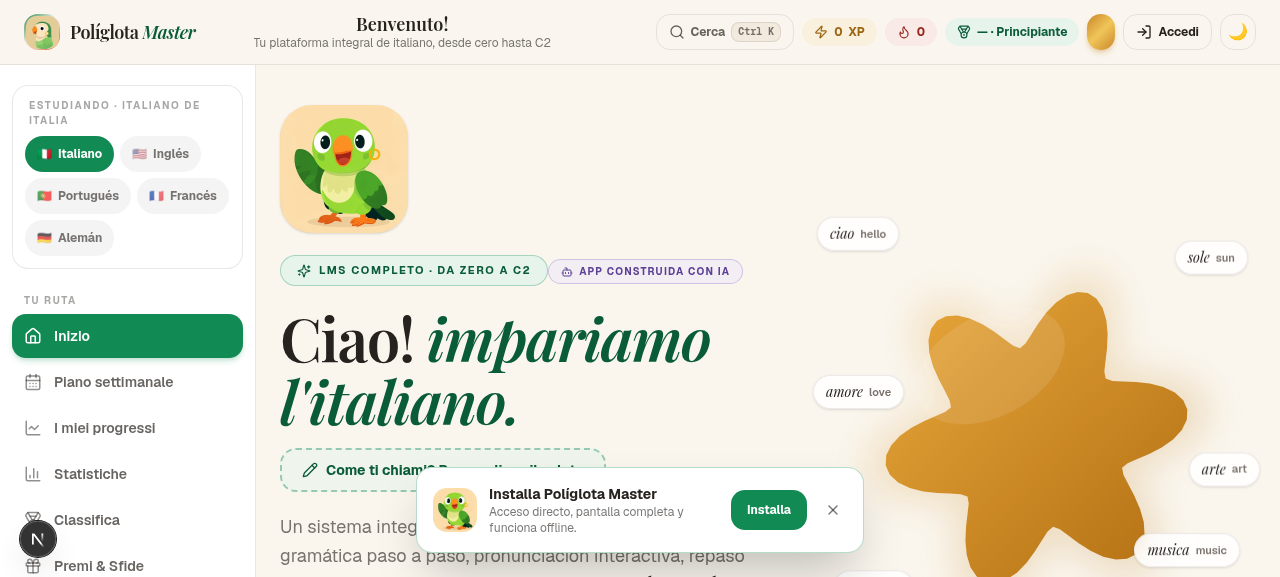
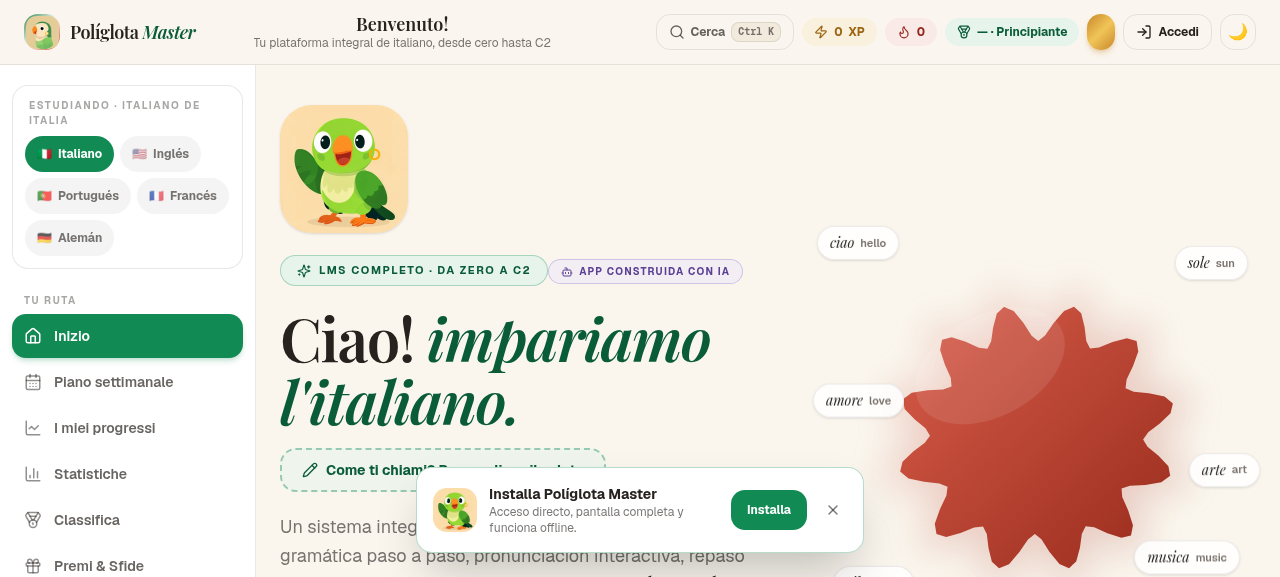
v9.40: worklog + capturas E2E + scripts de generación fase 2 (reanudables)

diff --git a/worklog.md b/worklog.md
@@ -2687,3 +2687,23 @@ Work Log:
 
 Stage Summary:
 - v9.39 completa: tutor IA multilingüe (bug del usuario resuelto), 90 noticias VOA por idioma (5 lenguas, 360 nuevas), conjugador/números/skills/situaciones/cultura/shadowing/pronunciación/test/vocabulario/gramática/juegos/fichas/analizador unificados al multilingüismo con 18 vistas desbloqueadas. Coste 0 €. Despliegue: SW im-v9-39-0.
+
+---
+Task ID: v9.40/fase-1
+Agent: main (Super Z)
+Task: v9.40 · Logo sin círculo + Centro de borrado de datos (total/parcial) + divulgación IA + tools por idioma + fotos realistas masivas (fase 1: noticias)
+
+Work Log:
+- Logo sin círculo: la foto del loro es de fondo completo → círculo (rounded-full border-2) la recortaba. Cambiada a tarjeta cuadrada con esquinas amplias: mascot.tsx (rounded-[1.5rem], afecta quiz-engine/review/dictionary/shadowing/progress/letture), home.tsx hero (rounded-[2rem] + h-28/h-32, antes h-20/h-24), exams.tsx (rounded-[1.75rem] h-28). Pantalla de carga ya usaba rounded-[1.75rem] (v9.37). pwa.tsx ya era rounded-xl.
+- Borrado selectivo (GDPR Art. 17 parcial): store.wipeLocalData(cats) con 7 categorías (srs, writings, imported, dict, activity, lessons, gamification) que conservan cuenta/sesión/ajustes/PIN/plan. legal.tsx Centro de privacidad: sección "Borrar tus datos · total o parcial" con checkboxes por categoría, contadores en vivo (N registros), seleccionar todo, confirmación inline y mensaje de éxito; el borrado total de cuenta (servidor) se mantiene en la sección roja existente. Settings: tarjeta violeta "Tus datos son tuyos" con botón → legal.
+- Divulgación IA: sección "Esta app fue construida con IA" en Centro de privacidad (código+contenido+imágenes+tutor con GLM de Z.ai, límites, no entrenamiento); Términos §4 ampliado; badges siempre visibles: sidebar ("IA" junto al nombre), footer ("Construida con IA"), home (chip violeta "App construida con IA" → legal). TOS_VERSION 2026-10-23.1.
+- Seguridad visible: sección "Solo tú tienes acceso a tus datos" (4 tarjetas: privacidad por diseño, scrypt+sal, sesiones revocables, sin terceros/venta) + nota de acceso admin solo métricas agregadas. Auditoría previa: login con rate limit por IP+usuario y lockout, scrypt+timingSafeEqual, DELETE profile con IDOR fix y revocación de sesiones.
+- Tools por idioma: scripts/v940-i18n.py completó nav.items (33 vistas) + titles (33 con title+sub) en ui/en|pt|fr|de.ts; it.ts reconstruido con los 49 items en italiano propio (Inizio, Grammatica, Vocabolario, Ascolto, Situazioni reali…). shell.tsx extraTab localizado con navLabelFor (Tutor IA/Juegos/Gramática hardcodeados fuera). Bottom bar ya usaba u.nav.items.
+- Fotos realistas (z-ai-web-dev-sdk 1024×576, múltiplos de 32 — la API rechaza 1440×720): manifiesto de 576 imágenes faltantes (360 noticias v9.39 + 120 secciones EN/PT/FR/DE ls/rd/cs/sit/cul + 34 escritura + 62 pronunciación) → scripts/v940-manifest.ts; generador v940-generate.ts con concurrencia 5, pacing 5s, backoff creciente en 429 (15s→90s), escritura atómica (tmp+rename) y reanudable. Cuota de la API agotada tras ~274 imágenes (ventana aparentemente diaria): noticias 364/450 (IT 90/90, EN 90/90, PT 89/90, FR 77/90, DE 18/90).
+- Wiring fotos: lang-extras.ts con mapas por lengua (listeningImgFor/readingImgFor/conversationImgFor/writingImgFor nueva/situationImgFor/cultureImgFor/pronImgFor nueva, helper imgMap); skills.tsx (escucha detalle+card, lectura, escritura detalle+card con foto nueva), pronunciation.tsx (foto de boca por sonido), situations/culture ya usaban resolutores. ImgWithFallback (theme-img.tsx): si el archivo falta (404) o la red falla → cromo degradado con emoji de la sección, nunca broken img (E2E: pron EN 10/13 fallback, 0 rotas).
+- QA: tsc 82 líneas = baseline-1 (0 en archivos tocados); eslint 0 errores en 17 archivos tocados; build OK 15/15. E2E localhost+producción: logo cuadrado 128px sin círculo, chip IA, 4 secciones legales, borrado selectivo verificado con datos inyectados (SRS+XP a 0, escritos/importados/diccionario intactos), nav IT completo + EN/DE/FR verificados, fetch de fotos nuevas 200, 0 errores de consola.
+- Deploy: SW im-v9-40-0, commit e29cf31, push → producción verificada (smoke: sw.js/news webp/manifest 200, loading con rounded-[1.75rem]).
+
+Stage Summary:
+- v9.40 fase 1 DESPLEGADA: logo del loro sin círculo (más grande y limpio), borrado de datos total/parcial siempre disponible (legal + settings), divulgación "Construida con IA" siempre visible (sidebar/footer/home/legal), herramientas nombradas en los 5 idiomas (nav+títulos), 274 fotos realistas nuevas de noticias VOA (364/450) y degradación elegante a emoji en secciones hasta completar las 302 restantes.
+- FASE 2 PENDIENTE (cuota API): 86 noticias (1 PT, 13 FR, 72 DE) + 120 secciones + 34 escritura + 62 pronunciación → correr `bun scripts/v940-manifest.ts && bun scripts/v940-generate.ts` (reanudable, salta existentes) y re-desplegar con bump de SW.
